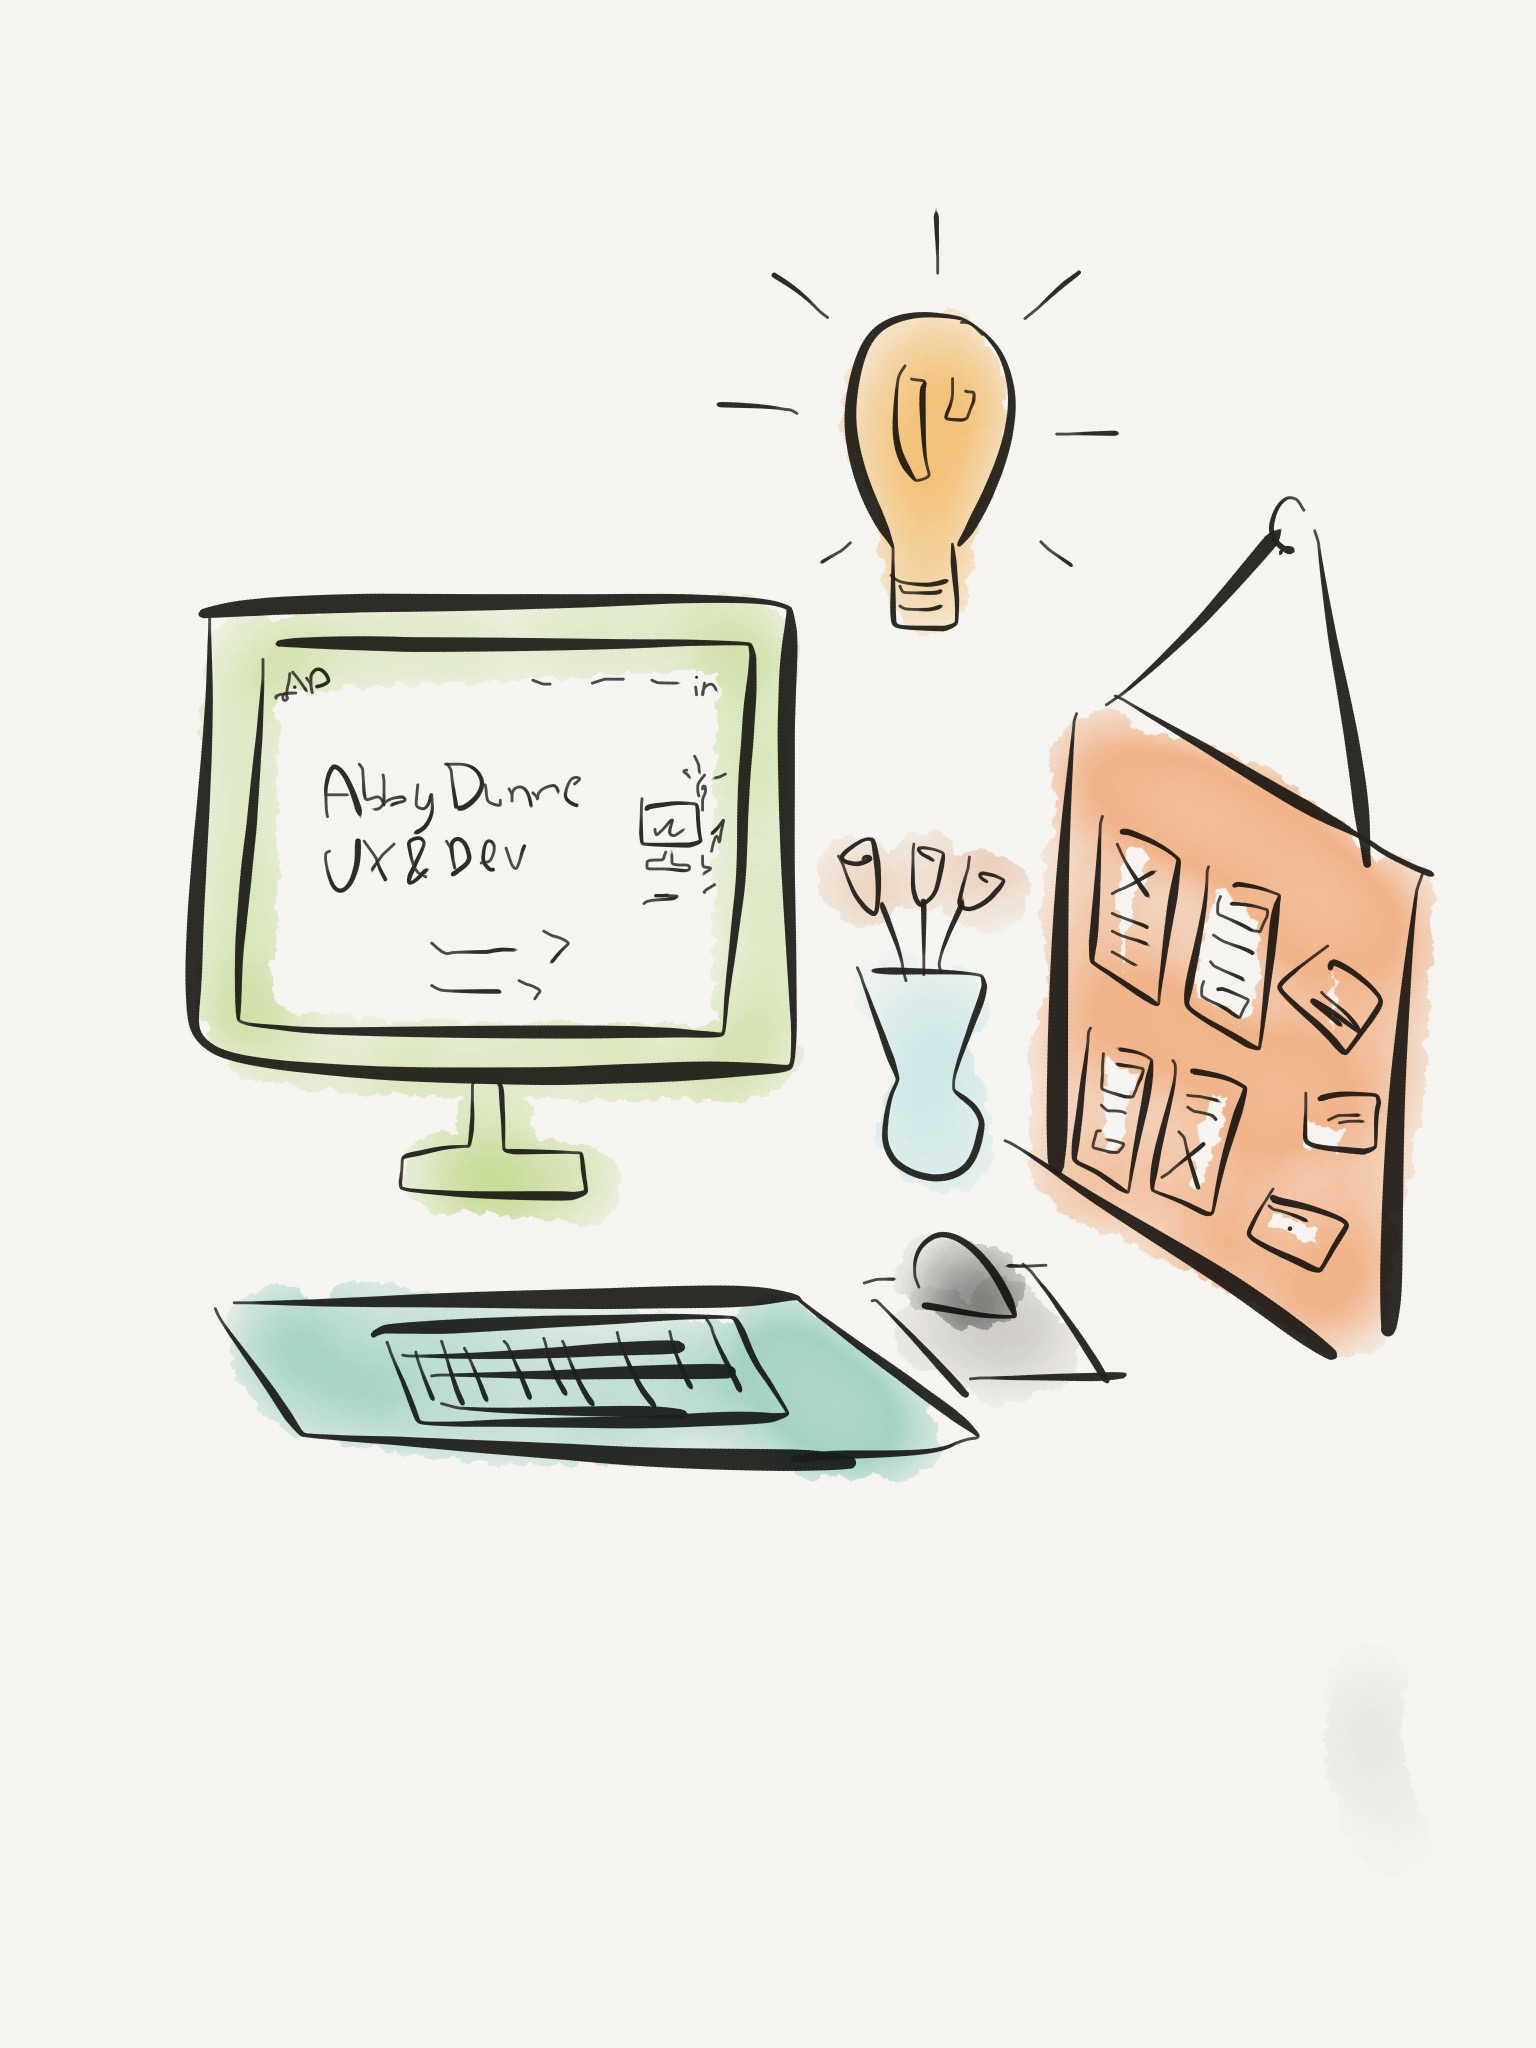
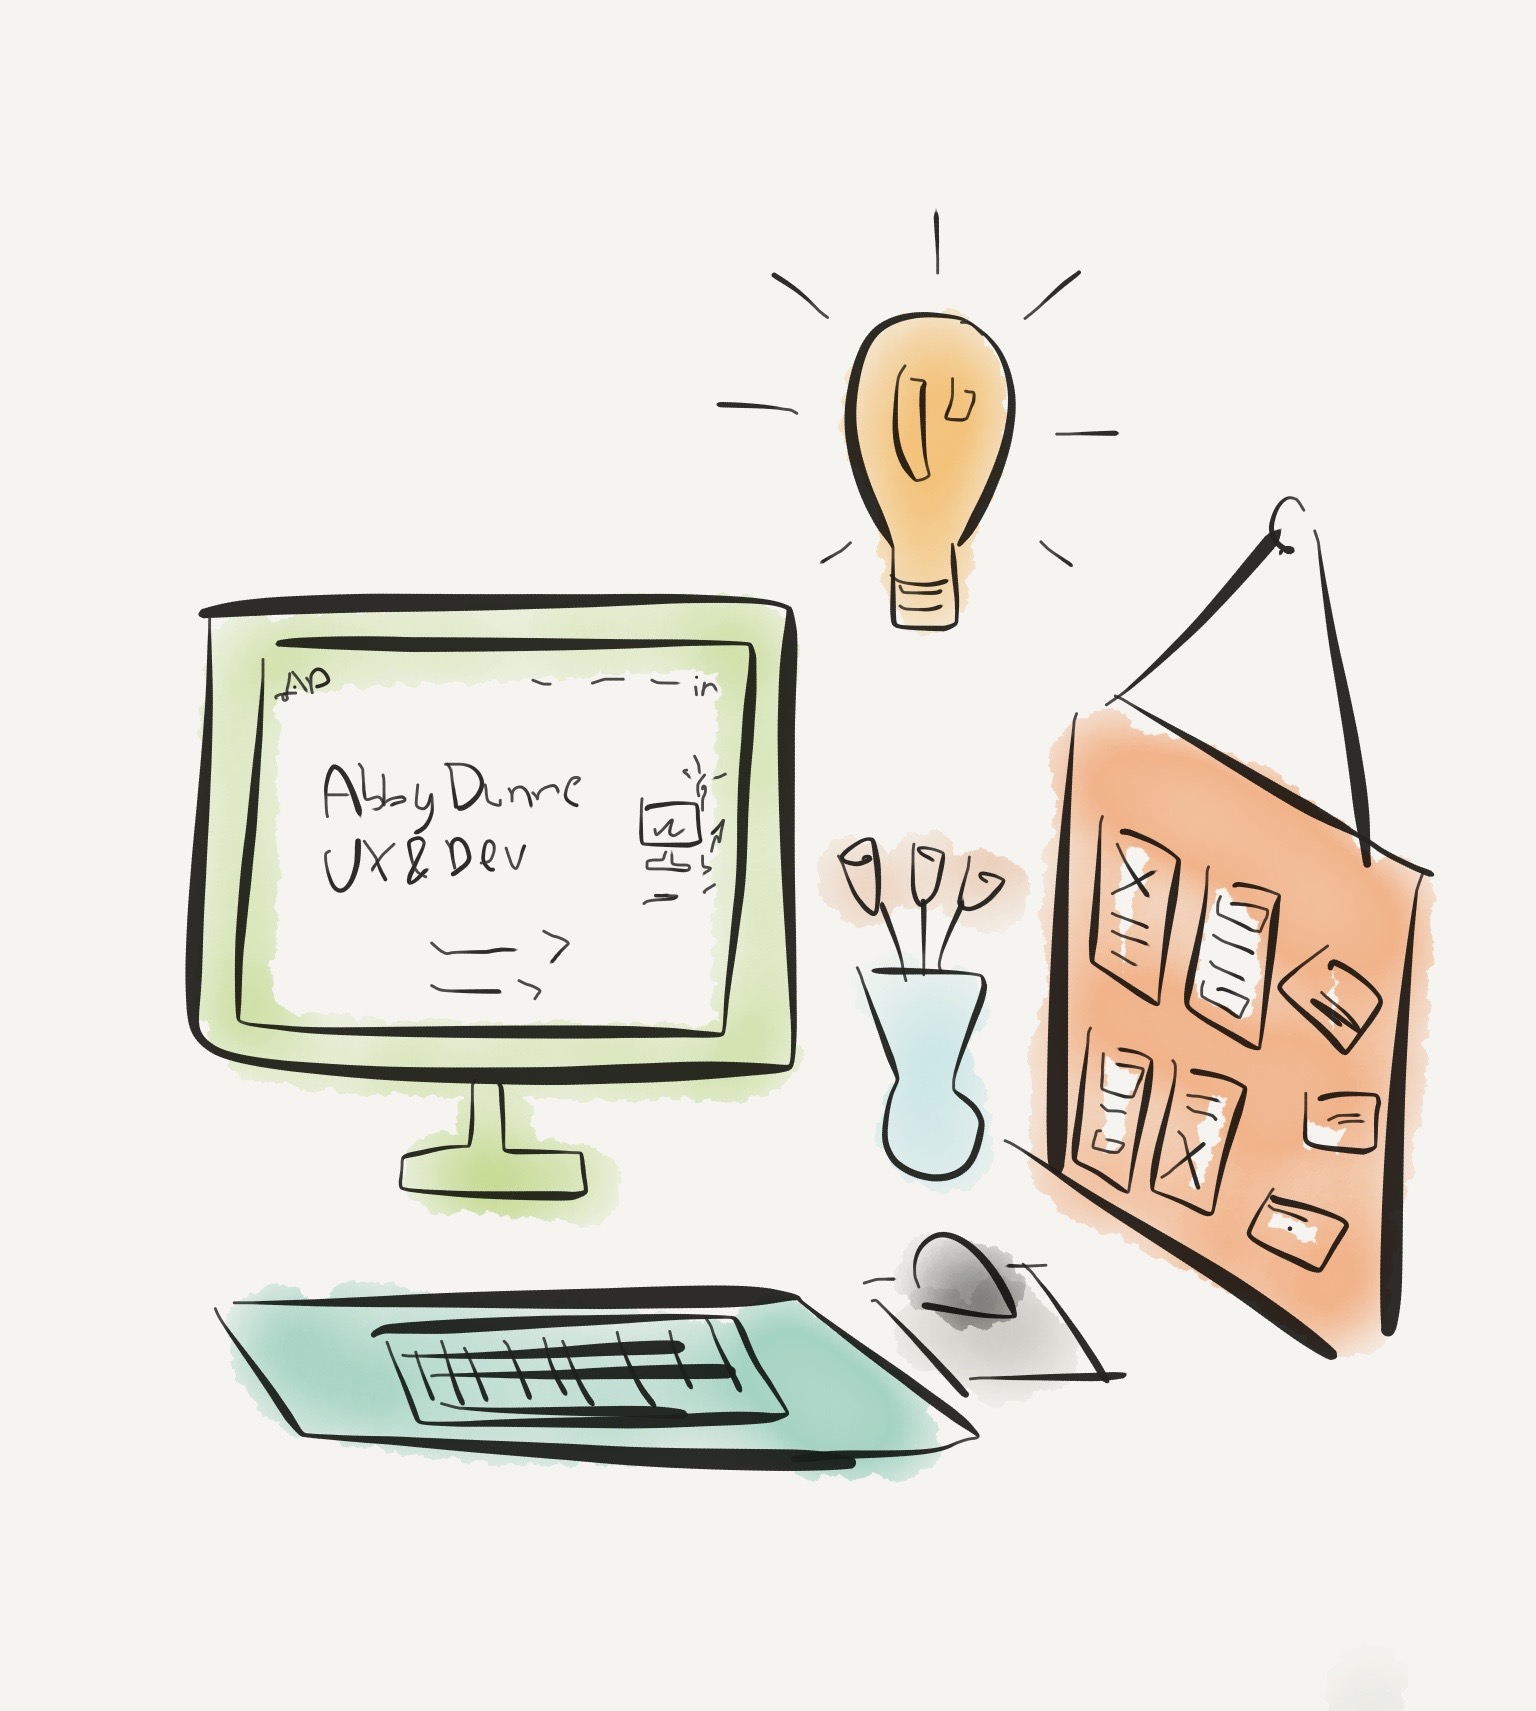
fixed homepage pic

diff --git a/index.html b/index.html
@@ -408,7 +408,7 @@ div {
         <a href="work.html">View my Work ></a>
     </div>
     <div class="view-resume">
-        <a href="resume.pdf">Resume ></a>
+        <a href="resume-updated-12-24.pdf">Resume ></a>
     </div>
     
     <!-- <ul>
@@ -423,7 +423,7 @@ div {
 <section>
 <!--<section style="width: 400px;">-->
     <div class="home-pic">
-    <img src="images/home_pic.jpg" alt="Home Graphic" border="0" style="height:40em">
+    <img src="images/home_pic.jpg" alt="Home Graphic" border="0" style="height:35em">
 </div>
 </section>
 
